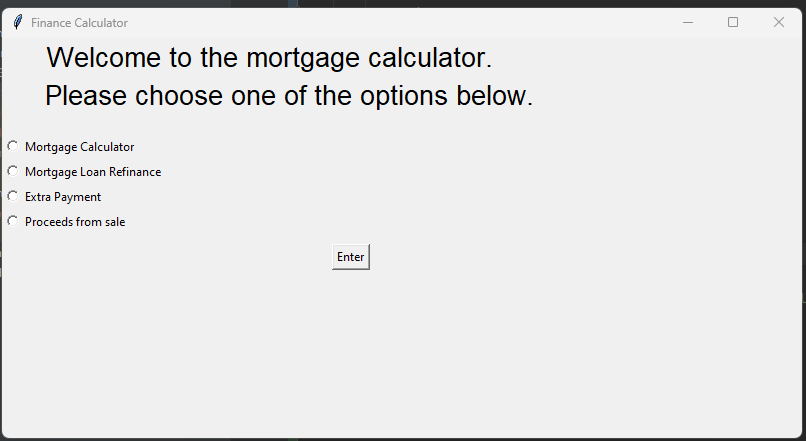
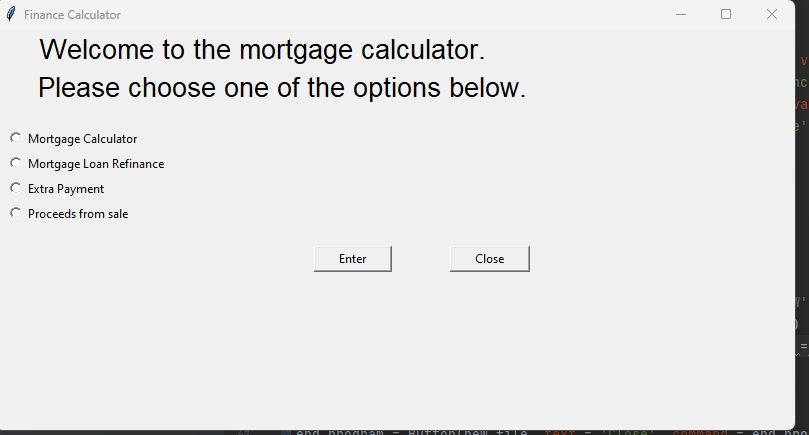
part one mortgage calculation is now complete and ready for review.  The remaining sections will be completed soon

diff --git a/Mortgage_w_Tkinter.py b/Mortgage_w_Tkinter.py
@@ -2,17 +2,16 @@
 
 import numpy as np
 import pandas as pd
-import csv
-import matplotlib.pyplot as plt
 from tkinter import *
 from tkinter import messagebox
+from tkinter import filedialog, Tk
 import locale
 locale.setlocale(locale.LC_ALL, '')
 from matplotlib.backends.backend_tkagg import FigureCanvasTkAgg
-
+from matplotlib.figure import Figure
+import matplotlib
 
 #allow for use of different functions for different windows
-
 def choice():
     if module.get() == 'Mortgage Calculation':
         mortgagecalc()
@@ -22,6 +21,10 @@ def choice():
         extrapaycalc()
     elif module.get() == 'proceeds':
         proceedscalc()
+
+#used to end the program
+def end_program1():
+    new_file.destroy()
 
 # creating the window
 new_file = Tk()
@@ -47,19 +50,35 @@ choose = Button(new_file, text = "Enter", command = choice)
 
 #Insert Buttons
 
-mortgage.grid(row = 2, column = 0, sticky = 'W')
-refinance.grid(row = 3, column = 0, sticky = 'W')
-extra_payment.grid(row = 4, column = 0, sticky = 'W')
-proceedscalc.grid(row = 5, column = 0, sticky = 'W')
-choose.grid(row = 6, column = 1, sticky = 'W', pady = 10)
+mortgage.grid(row = 2, column = 0, padx = 10, sticky = 'W')
+refinance.grid(row = 3, column = 0, padx = 10, sticky = 'W')
+extra_payment.grid(row = 4, column = 0, padx = 10,  sticky = 'W')
+proceedscalc.grid(row = 5, column = 0, padx = 10, sticky = 'W')
+choose.grid(row = 6, column = 1, pady = 20, ipadx = 20, sticky = 'W')
 
-def calculate_result():
+#button used to end program
+
+end_program = Button(new_file, text = 'Close', command = end_program1)
+end_program.grid(row = 6, column = 1, pady = 20, ipadx = 20, sticky = 'E')
+
+#function to save ammortization file
+def save(mortgage_result):
+    mortgage_result.to_csv('mortgage_result.csv', encoding = 'utf-8',index = False)
+
+def return_file(mortgage_calculator):
+    mortgage_calculator.withdraw()
+    new_file.deiconify()
+
+
+def calculate_result(mortgage_calculator, verify_frame, update_principal, update_interest,
+                                                         update_term, update_downpayment,
+                                                        calculate_frame):
 
     try:
-        verify_principal1 = int(principal_verify.get())
-        verify_interest1 = float(interest_verify.get())
-        verify_term1 = int(term_verify.get())
-        verify_downpayment1 = float(downpayment_verify.get())
+        verify_principal1 = int(update_principal.get())
+        verify_interest1 = float(update_interest.get())
+        verify_term1 = int(update_term.get())
+        verify_downpayment1 = float(update_downpayment.get())
         if verify_principal1 <= 0:
             messagebox.showerror("Principal Error", "Please enter a positive whole number")
             return
@@ -87,8 +106,8 @@ def calculate_result():
         messagebox.showerror("error", "Please enter a whole number")
         return
 
-    calculation.pack(fill='both', expand=1)
-    verify_info.pack_forget()
+    calculate_frame.pack(fill='both', expand=1)
+    verify_frame.pack_forget()
 
     #creating lists for dataframe use
 
@@ -140,17 +159,17 @@ def calculate_result():
     for i in running_balance[:-1]:
         begin_balance = np.append(begin_balance, i)
 
-
     #adding formatting
 
     verify_principal1 = locale.currency(verify_principal1, grouping = True)
     monthly_payment = locale.currency(monthly_payment, grouping = True)
     totalinterest = locale.currency(totalinterest, grouping = True)
     total_mortgage = locale.currency(total_mortgage, grouping = True)
+
    #creating the DataFrame
 
-    results = LabelFrame(calculation, width = 100, height = 100)
-    results.pack(pady = 20, padx = 20, side = LEFT)
+    results = LabelFrame(calculate_frame, width = 100, height = 100)
+    results.pack(pady = (0,70), padx = 20, side = LEFT)
     results1 = Label(results, text = "Mortgage Results", font = ('Arial', 12))
     results1.grid(row = 0, column = 0, columnspan = 2)
     saleprice = Label(results, text = "Sales Price")
@@ -181,11 +200,8 @@ def calculate_result():
     totalpaid_result.grid(row = 7, column = 0, sticky = 'W')
     totalpaid_result1 = Label(results, text = total_mortgage)
     totalpaid_result1.grid(row =7, column =1, sticky = 'E')
-
-    result_title1 = Label(calculation, text = 'Mortgage Calculated', font = ('Arial', 20))
-    result_title1.pack(anchor = 'nw', padx = (60,0))
-
-
+    result_title1 = Label(calculate_frame, text = 'Mortgage Calculated', font = ('Arial', 20))
+    result_title1.pack(anchor = 'nw', padx = (60,0), pady = (10,60))
 
     #create DataFrame
 
@@ -194,42 +210,52 @@ def calculate_result():
         month_num = np.append(month_num, months)
     month_num = (month_num.astype(int))
 
-
+    #columns array
 
     result_data = {'Beginning Balance' : begin_balance, 'Principal Paid' : monthly_principal, 'Interest Paid' : interest_paid, 'Ending Balance' : running_balance}
+
+    #format currency for dataframe
 
     mortgage_result = pd.DataFrame(result_data)
     for i in result_data.keys():
         mortgage_result[i] = mortgage_result[i].map(locale.currency)
     mortgage_result = mortgage_result.set_index(month_num)
 
-
     #create graph
 
     y1 = result_data['Principal Paid']
     y2 = result_data['Interest Paid']
     x = month_num
-    plt.title('Principal vs Interest over time')
-    graph = plt.Figure(figsize=(5,4), dpi = 100)
-    graph.add_subplot(111).plot(x, y1, y2)
+    y = ['Principal', 'Interest']
 
-    chart = FigureCanvasTkAgg(graph, calculation)
-
+    graph = Figure(figsize=(6,4))
+    ax = graph.add_subplot(111)
+    ax.set_title("Principal vs Interest Over Life of Loan")
+    ax.set_ylabel('Principal and Interest Payments')
+    ax.set_xlabel('Months')
+    ax.legend(['y'], fontsize = "80", loc = 'best')
+    ax.plot(x, y1, y2)
+    matplotlib.rcParams['figure.autolayout'] = True
+    chart = FigureCanvasTkAgg(graph, calculate_frame)
     chart.get_tk_widget().pack(pady = (20,0))
 
+    #create save and close buttons
+    save_button = Label(calculate_frame, text = "Press Save to save a CSV file.  Press Close to return to main screen")
+    save_button.pack(side = BOTTOM, padx =(0,120))
+    btnsave = Button(calculate_frame, text = 'Save', command = lambda: save(mortgage_result))
+    btnsave.pack(side = LEFT, padx = 200, pady = (10,10), ipadx = 20)
+    btnclose = Button(calculate_frame, text = 'Close', command = lambda: return_file(mortgage_calculator))
+    btnclose.pack(side = LEFT, padx = (0, 150), ipadx = (20), pady = (10,10))
 
-
-
-
-def verification():
+def verification(mortgage_calculator, verify_frame, principal, interest, term, downpayment, mortgage_calculator1, calculate_frame):
 
     # verifying the values entered are correct
 
     try:
-        verify_principal = int(principal_main.get())
-        verify_interest = float(interest_main.get())
-        verify_term = int(term_main.get())
-        verify_downpayment = float(downpayment_main.get())
+        verify_principal = int(principal.get())
+        verify_interest = float(interest.get())
+        verify_term = int(term.get())
+        verify_downpayment = float(downpayment.get())
         if verify_principal <= 0:
             messagebox.showerror("Purchase Price Error", "Please enter a positive whole number")
             return
@@ -259,61 +285,52 @@ def verification():
 
     #open a new frame to verify information entered
 
-    verify_info.pack(fill='both', expand = 1)
-    close_mortgage_calc.pack_forget()
+    verify_frame.pack(fill='both', expand = 1)
+    mortgage_calculator1.pack_forget()
 
     # give user option to make changes or keep existing
 
-    verifylabelone = Label(verify_info, text = "Please verify the information provided", font = ('Arial', 20))
+    verifylabelone = Label(verify_frame, text = "Please verify the information provided", font = ('Arial', 20))
     verifylabelone.grid(row = 0, column = 1)
-    verifylabeltwo = Label(verify_info, text = "If correct, press submit, otherwise make", font = ('Arial', 20))
+    verifylabeltwo = Label(verify_frame, text = "If correct, press submit, otherwise make", font = ('Arial', 20))
     verifylabeltwo.grid(row = 1, column = 1)
-    verifylabelthree = Label(verify_info, text = "corrections and press submit",font = ('Arial', 20))
+    verifylabelthree = Label(verify_frame, text = "corrections and press submit",font = ('Arial', 20))
     verifylabelthree.grid(row = 2, column = 1)
 
     #create entry widget showing values entered
 
-    update_principal = Entry(verify_info, width = 20)
+    update_principal = Entry(verify_frame, width = 20)
     update_principal.grid(row = 3, column = 1, pady = (20, 0), padx = 20, ipadx = 50)
-    update_interest = Entry(verify_info, width =20)
+    update_interest = Entry(verify_frame, width =20)
     update_interest.grid(row=4, column=1, padx = 20, ipadx = 50)
-    update_term = Entry(verify_info, width=20)
+    update_term = Entry(verify_frame, width=20)
     update_term.grid(row=5, column=1, padx=20, ipadx=50)
-    update_downpayment = Entry(verify_info, width=20)
+    update_downpayment = Entry(verify_frame, width=20)
     update_downpayment.grid(row=6, column=1, padx=20, ipadx=50)
 
     #add labels to show on screen
 
-    update_principal_label = Label(verify_info, text = "Verify Principal")
+    update_principal_label = Label(verify_frame, text = "Verify Principal")
     update_principal_label.grid(row = 3, column = 0, pady = (20,0), padx = (80,0), sticky = 'W')
-    update_interest_label = Label(verify_info, text = "Verify Interest")
+    update_interest_label = Label(verify_frame, text = "Verify Interest")
     update_interest_label.grid(row = 4, column = 0, padx = (80,0), sticky = 'W')
-    update_term_label = Label(verify_info, text = "Verify Yearly Terms")
+    update_term_label = Label(verify_frame, text = "Verify Yearly Terms")
     update_term_label.grid(row = 5, column = 0, padx = (80,0), sticky = 'W')
-    update_downpayment_label = Label(verify_info, text = "Down Payment")
+    update_downpayment_label = Label(verify_frame, text = "Down Payment")
     update_downpayment_label.grid(row = 6, column = 0, padx = (80,0), sticky = 'W')
 
     #show the values within the entry fields
 
-    update_principal.insert(5, principal_main.get())
-    update_interest.insert(5, interest_main.get())
-    update_term.insert(5, term_main.get())
-    update_downpayment.insert(5, downpayment_main.get())
+    update_principal.insert(5, principal.get())
+    update_interest.insert(5, interest.get())
+    update_term.insert(5, term.get())
+    update_downpayment.insert(5, downpayment.get())
 
-    #redo the gloabl variables
+   #create the submit button
 
-    global principal_verify
-    principal_verify = update_principal
-    global interest_verify
-    interest_verify = update_interest
-    global term_verify
-    term_verify = update_term
-    global downpayment_verify
-    downpayment_verify = update_downpayment
-
-    #create the submit button
-
-    submit_button = Button(verify_info, text = "Submit", command = calculate_result)
+    submit_button = Button(verify_frame, text = "Submit", command = lambda: calculate_result(mortgage_calculator, verify_frame,
+                                                                                             update_principal, update_interest,
+                                                                                             update_term, update_downpayment, calculate_frame))
     submit_button.grid(row = 7, column = 1, pady = (20,0))
 
 # this starts the function for the first mortgage calculation
@@ -322,8 +339,8 @@ def mortgagecalc():
 
 #this starts the function for the first mortgage calculation
 #by creating a new window
-    new_file.destroy()
-    mortgage_calculator = Tk()
+    new_file.withdraw()
+    mortgage_calculator = Toplevel()
     mortgage_calculator.title("Mortgage Calculator")
     mortgage_calculator.geometry('1000x600')
 
@@ -362,31 +379,16 @@ def mortgagecalc():
     downpayment_label = Label(mortgage_calculator1, text = "Enter down payment as a percentage e.g 5 for 5%", padx = 40)
     downpayment_label.grid(row = 6, column = 0, padx = 40, pady = (0,5), sticky = "W")
 
-    #assign values as global
-
-    global principal_main
-    principal_main = principal
-    global interest_main
-    interest_main = interest
-    global term_main
-    term_main = term
-    global downpayment_main
-    downpayment_main = downpayment
-
-    #creating frames and assigning global variables
+   #creating frames
 
     verify_frame = LabelFrame(mortgage_calculator)
-    global verify_info
-    verify_info = verify_frame
-    global close_mortgage_calc
-    close_mortgage_calc = mortgage_calculator1
     calculate_frame = LabelFrame(mortgage_calculator)
-    global calculation
-    calculation = calculate_frame
 
 #create submit button
 
-    submit_info = Button(mortgage_calculator1, text = "Submit", command = verification)
+    submit_info = Button(mortgage_calculator1, text = "Submit", command = lambda:  verification(mortgage_calculator, verify_frame,
+                                                                                                principal, interest, term, downpayment,
+                                                                                                mortgage_calculator1, calculate_frame))
     submit_info.grid(row = 7, column = 0, sticky = 'E', pady = 10)
 
 def refinancecalc():

diff --git a/README.md b/README.md
@@ -3,39 +3,45 @@ The following program uses various modules to calculate the following informatio
 
 1. Initial payments for purchase of a house
 2. Refinancing an existing mortgage
-3. What if I make an additional payment to principal
+3. What if I make an additional payment to principal?
 4. Sales proceeds when the house sells
 
 The program will be utilizing Tkinter as the GUI.
 
-First screen that pops up is the options the user has.
+The program starts with options for the user.
 
 ![Alt text](image.png)
 
-Currently the only option working is the mortgage calculation
+Currently, the only option working is the mortgage calculation.
+The option to close the program has been added, when the user has completed the task.
+
+When the user presses submit for the mortgage calculator, this is the screen that appears
 
 ![Alt text](image-1.png)
 
-Once the information is entered, a check is made to ensure the information entered is accurate
-if not, the user will receive an error message.
+Once the information is entered, a check is made to ensure 
+the information entered is accurate.
+If not, the user will receive an error message.
 
 ![Alt text](image-3.png)
 
 Once the information is submitted, the user is given the option to verify the information submitted.
+The user can choose to keep the information and press submit or make changes in the fields.
 
 ![Alt text](image-4.png)
 
-Once again, checks are made to ensure the ocrrect informaiton is entered.
+Once again, checks are made to ensure the correct information is entered.  Once entered the results
+will be displayed along with a graph showing principal and interest payments over each month.  
+The user will have the option to save the ammortization file as a .csv on the local computer
 
-Once submitted the next step is the calculation results, which is a work in progress and will be updated soon.
+![img_1.png](img_1.png)
+
+Once closed, the program will revert to the first window, giving the user the option to 
+complete a newq task or end the program.
+
+The only error encountered has been with the legend for the line graph.  I have not found a solution.
 
 
-
-
-
-The program will also provide the user with the option to save an amortization file 
-to their local computer.  Graphs will also be provided to show the history of loan
-payments.
 
 
 
